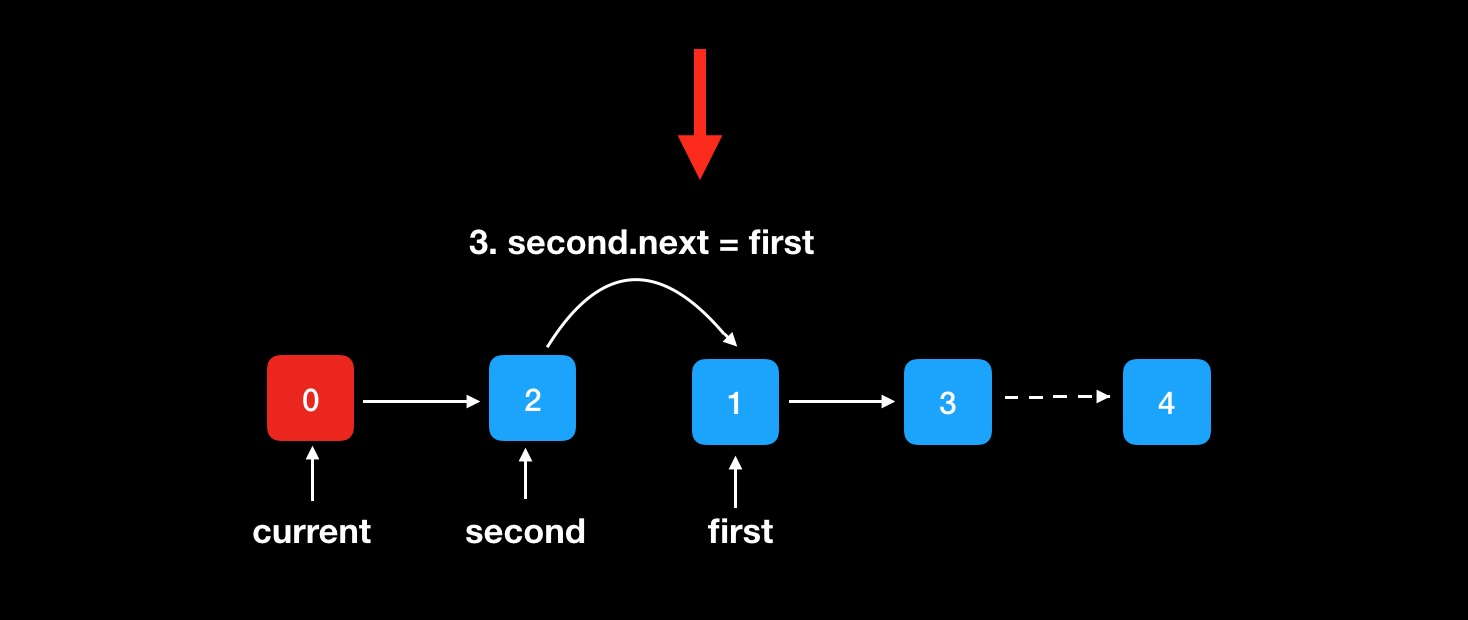
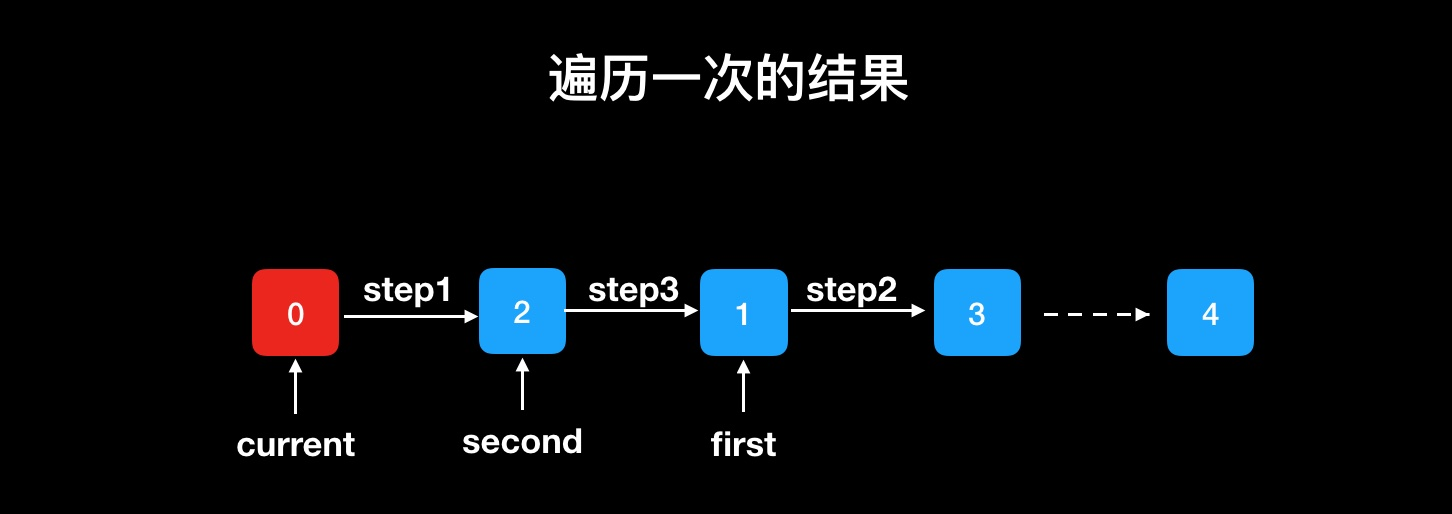
Site updated: 2019-05-08 18:19:01

diff --git a/2019/Swap Nodes In Pairs/index.html b/2019/Swap Nodes In Pairs/index.html
@@ -133,15 +133,16 @@
 <meta property="og:site_name" content="TizzyT&#39;s Blog">
 <meta property="og:description" content="题目描述（难度中等）Given a linked list, swap every two adjacent nodes and return its head. You may not modify the values in the list’s nodes, only nodes itself may be changed. Example: 1Given 1-&amp;gt;2-&amp;gt;3-&amp;gt">
 <meta property="og:locale" content="default">
-<meta property="og:image" content="https://arthornye.github.io/images/swapping.jpg">
-<meta property="og:image" content="https://arthornye.github.io/images/swappingonce.jpg">
+<meta property="og:image" content="https://arthornye.github.io/images/swappingone.jpg">
+<meta property="og:image" content="https://arthornye.github.io/images/swappingtwo.jpg">
+<meta property="og:image" content="https://arthornye.github.io/images/swappingthree.jpg">
 <meta property="og:image" content="https://arthornye.github.io/images/swappingtwice.jpg">
 <meta property="og:image" content="https://arthornye.github.io/images/swappingtwicefinished.jpg">
-<meta property="og:updated_time" content="2019-05-08T03:30:45.865Z">
+<meta property="og:updated_time" content="2019-05-08T10:11:02.984Z">
 <meta name="twitter:card" content="summary">
 <meta name="twitter:title" content="Swap Nodes In Pairs">
 <meta name="twitter:description" content="题目描述（难度中等）Given a linked list, swap every two adjacent nodes and return its head. You may not modify the values in the list’s nodes, only nodes itself may be changed. Example: 1Given 1-&amp;gt;2-&amp;gt;3-&amp;gt">
-<meta name="twitter:image" content="https://arthornye.github.io/images/swapping.jpg">
+<meta name="twitter:image" content="https://arthornye.github.io/images/swappingone.jpg">
 
 
 
@@ -446,9 +447,10 @@
 <p><strong>Example:</strong></p>
 <figure class="highlight plain"><table><tr><td class="gutter"><pre><span class="line">1</span><br></pre></td><td class="code"><pre><span class="line">Given 1-&gt;2-&gt;3-&gt;4, you should return the list as 2-&gt;1-&gt;4-&gt;3.</span><br></pre></td></tr></table></figure>
 <h3 id="方法一：遍历一遍链表"><a href="#方法一：遍历一遍链表" class="headerlink" title="方法一：遍历一遍链表"></a>方法一：遍历一遍链表</h3><p>链表改变顺序的题目，通用的方法论是先找出一次需要改变指向的节点数量。交换相邻节点需要改变<strong>current（相邻节点前节点的前节点），first（相邻节点前节点），second（相邻节点后节点）。</strong>current在链表头部自定义一个初始值为0的节点。</p>
-<p><img src="https://arthornye.github.io/images/swapping.jpg" alt="cmd-markdown-logo"></p>
+<p><img src="https://arthornye.github.io/images/swappingone.jpg" alt="cmd-markdown-logo"></p>
+<p><img src="https://arthornye.github.io/images/swappingtwo.jpg" alt="cmd-markdown-logo"></p>
 <p><strong>上图中展示了链表指向的过程，三个节点都需要进行重定向，一次循环后的结果：</strong></p>
-<p><img src="https://arthornye.github.io/images/swappingonce.jpg" alt="cmd-markdown-logo"></p>
+<p><img src="https://arthornye.github.io/images/swappingthree.jpg" alt="cmd-markdown-logo"></p>
 <p><strong>第二次循环继续将current往后平移两个单位，继续执行循环赋值：</strong></p>
 <p><img src="https://arthornye.github.io/images/swappingtwice.jpg" alt="cmd-markdown-logo"></p>
 <p><strong>得到循环赋值结果：</strong></p>
